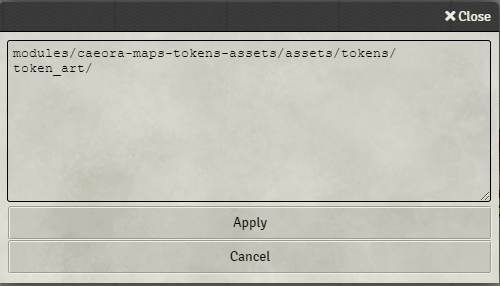
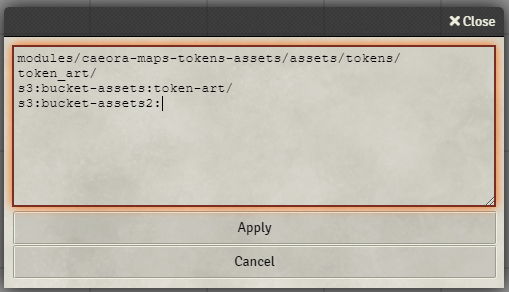
Adding support for AWS S3 buckets.

Changed region(s): [[0.0, 0.0, 1.0, 1.0]]

diff --git a/README.md b/README.md
@@ -33,10 +33,13 @@ The directories that will be scanned for art can be set here. All of the sub-dir
 
 !["Search Paths Config"](./docs/search_paths.png)
 
-The root of these paths is Foundry VTT's Data folder. The same folder where you would find your worlds, systems, and modules.
+The root of these paths is assumed to be Foundry VTT's local Data folder. The same folder where you would find your worlds, systems, and modules.
 
 By default 'Token Variants' will attempt to search [Caeora's Maps, Tokens, and Assets](https://foundryvtt.com/packages/caeora-maps-tokens-assets) asset folder if installed.
 
+To specify a path for a [configured](https://foundryvtt.com/article/aws-s3/) AWS S3 bucket you can use the following format:
+
+**s3:{bucket-name}:{path}**
 ### Disable Caching
 
 By default the module will search the directories defined in 'Variant art search paths' only when the world is loaded or when the module settings have changed. If new art is added while the world is still open it will not be found by the module. 'Disable Caching' will force the search to be performed every time a new actor is created at a significant cost to speed at which the art is displayed to the user.

diff --git a/CHANGELOG.md b/CHANGELOG.md
@@ -1,3 +1,8 @@
+# v 1.3.0
+
+* Adding support for AWS S3 buckets.
+    * Buckets configuered as per the following [PAGE](https://foundryvtt.com/article/aws-s3/) can be defined in the **Search Paths** configuration like so: **s3:{bucket-name}:{path}** 
+
 # v 1.2.0
 
 * Introducing '**Search by Keyword**' and '**Excluded Keywords**' configs:
